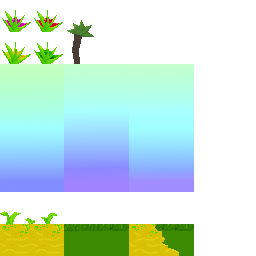
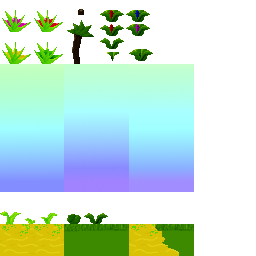
More plant work

Changed region(s): [[0.25, 0.0312, 0.5938, 0.25], [0.25, 0.8125, 0.4062, 0.875], [0.5, 0.1875, 0.5938, 0.25]]

diff --git a/Assets/ActionSystem/WorldItems/PlantComponent.cs b/Assets/ActionSystem/WorldItems/PlantComponent.cs
@@ -8,6 +8,10 @@ public enum PlantResource
     HONEY,
     SAFRON,
     JUICE,
+    RUBY,
+    SAPPHIRE,
+    GARNET,
+    TREE,
 };
 
 public class Plant : WorldItem
@@ -27,9 +31,15 @@ public class PlantComponent : MonoBehaviour {
     public Sprite safronSprite;
     public Sprite juiceSprite;
     public Sprite emptySprite;
+    public Sprite treeSprite;
+    public Sprite emptyTreeSprite;
+    public Sprite rubySprite;
+    public Sprite sapphireSprite;
+    public Sprite garnetSprite;
+    public Sprite emptyForestSprite;
 
-	// Use this for initialization
-	void Start () {
+    // Use this for initialization
+    void Start () {
         spriteRenderer = GetComponent<SpriteRenderer>();
         plant = GetComponent<WorldItemComponent>().GetItem<Plant>();
 	}
@@ -39,7 +49,22 @@ public class PlantComponent : MonoBehaviour {
         transform.position = new Vector3(plant.NumberLinePosition, 0, 0);
 		if (plant.harvested)
         {
-            spriteRenderer.sprite = emptySprite;
+            switch (plant.resource)
+            {
+                case PlantResource.HONEY:
+                case PlantResource.JUICE:
+                case PlantResource.SAFRON:
+                    spriteRenderer.sprite = emptySprite;
+                    break;
+                case PlantResource.RUBY:
+                case PlantResource.SAPPHIRE:
+                case PlantResource.GARNET:
+                    spriteRenderer.sprite = emptyForestSprite;
+                    break;
+                case PlantResource.TREE:
+                    spriteRenderer.sprite = emptyTreeSprite;
+                    break;
+            }
         } else
         {
             switch (plant.resource)
@@ -52,6 +77,18 @@ public class PlantComponent : MonoBehaviour {
                     break;
                 case PlantResource.SAFRON:
                     spriteRenderer.sprite = safronSprite;
+                    break;
+                case PlantResource.RUBY:
+                    spriteRenderer.sprite = rubySprite;
+                    break;
+                case PlantResource.SAPPHIRE:
+                    spriteRenderer.sprite = sapphireSprite;
+                    break;
+                case PlantResource.GARNET:
+                    spriteRenderer.sprite = garnetSprite;
+                    break;
+                case PlantResource.TREE:
+                    spriteRenderer.sprite = treeSprite;
                     break;
             }
         }

diff --git a/Assets/SpiralWorldManager.cs b/Assets/SpiralWorldManager.cs
@@ -14,33 +14,47 @@ public class SpiralWorldManager : MonoBehaviour {
 	void Start () {
         party = GetComponentInChildren<PartyComponent>();
         world.AddItem(party.party);
-        Plant dummyPlant0 = new Plant
+        world.AddItem(new Plant
         {
             harvested = false,
             resource = PlantResource.HONEY,
             NumberLinePosition = 0,
-        };
-        world.AddItem(dummyPlant0);
-        Plant dummyPlant1 = new Plant
+        });
+        world.AddItem(new Plant
         {
             harvested = false,
             resource = PlantResource.SAFRON,
             NumberLinePosition = 1,
-        };
-        world.AddItem(dummyPlant1);
-        Plant dummyPlant2 = new Plant
+        });
+        world.AddItem(new Plant
         {
             harvested = false,
             resource = PlantResource.JUICE,
             NumberLinePosition = 2,
-        };
-        world.AddItem(dummyPlant2);
-        Animal dummyAnimal0 = new Animal
+        });
+        world.AddItem(new Plant
+        {
+            harvested = false,
+            resource = PlantResource.RUBY,
+            NumberLinePosition = 4,
+        });
+        world.AddItem(new Plant
+        {
+            harvested = false,
+            resource = PlantResource.SAPPHIRE,
+            NumberLinePosition = 5,
+        });
+        world.AddItem(new Plant
+        {
+            harvested = false,
+            resource = PlantResource.GARNET,
+            NumberLinePosition = 6,
+        });
+        world.AddItem(new Animal
         {
             NumberLinePosition = 3,
             animalType = AnimalType.BOUNCING_BUNNY,
-        };
-        world.AddItem(dummyAnimal0);
+        });
     }
     
 	// Update is called once per frame

diff --git a/Assets/ActionSystem/Party.cs b/Assets/ActionSystem/Party.cs
@@ -7,6 +7,10 @@ public enum Loot
     HONEY,
     SAFRON,
     JUICE,
+    RUBY,
+    SAPPHIRE,
+    GARNET,
+    WOOD,
     GOLD,
 }
 
@@ -48,9 +52,21 @@ public class Party : WorldItem
 
     private bool CanHarvest(WorldItem target)
     {
-        if (target is Plant)
+        if (target is Plant && !((Plant)target).harvested)
         {
-            return !((Plant)target).harvested && partyStatus[Notes.Rogue];
+            switch (((Plant)target).resource)
+            {
+                case PlantResource.HONEY:
+                case PlantResource.JUICE:
+                case PlantResource.SAFRON:
+                    return partyStatus[Notes.Rogue];
+                case PlantResource.RUBY:
+                case PlantResource.SAPPHIRE:
+                case PlantResource.GARNET:
+                    return partyStatus[Notes.Cleric];
+                case PlantResource.TREE:
+                    return partyStatus[Notes.Bard];
+            }
         }
         return false;
     }
@@ -76,6 +92,14 @@ public class Party : WorldItem
                     return Loot.JUICE;
                 case PlantResource.SAFRON:
                     return Loot.SAFRON;
+                case PlantResource.RUBY:
+                    return Loot.RUBY;
+                case PlantResource.SAPPHIRE:
+                    return Loot.SAPPHIRE;
+                case PlantResource.GARNET:
+                    return Loot.GARNET;
+                case PlantResource.TREE:
+                    return Loot.WOOD;
             }
         }
         return Loot.GOLD;
